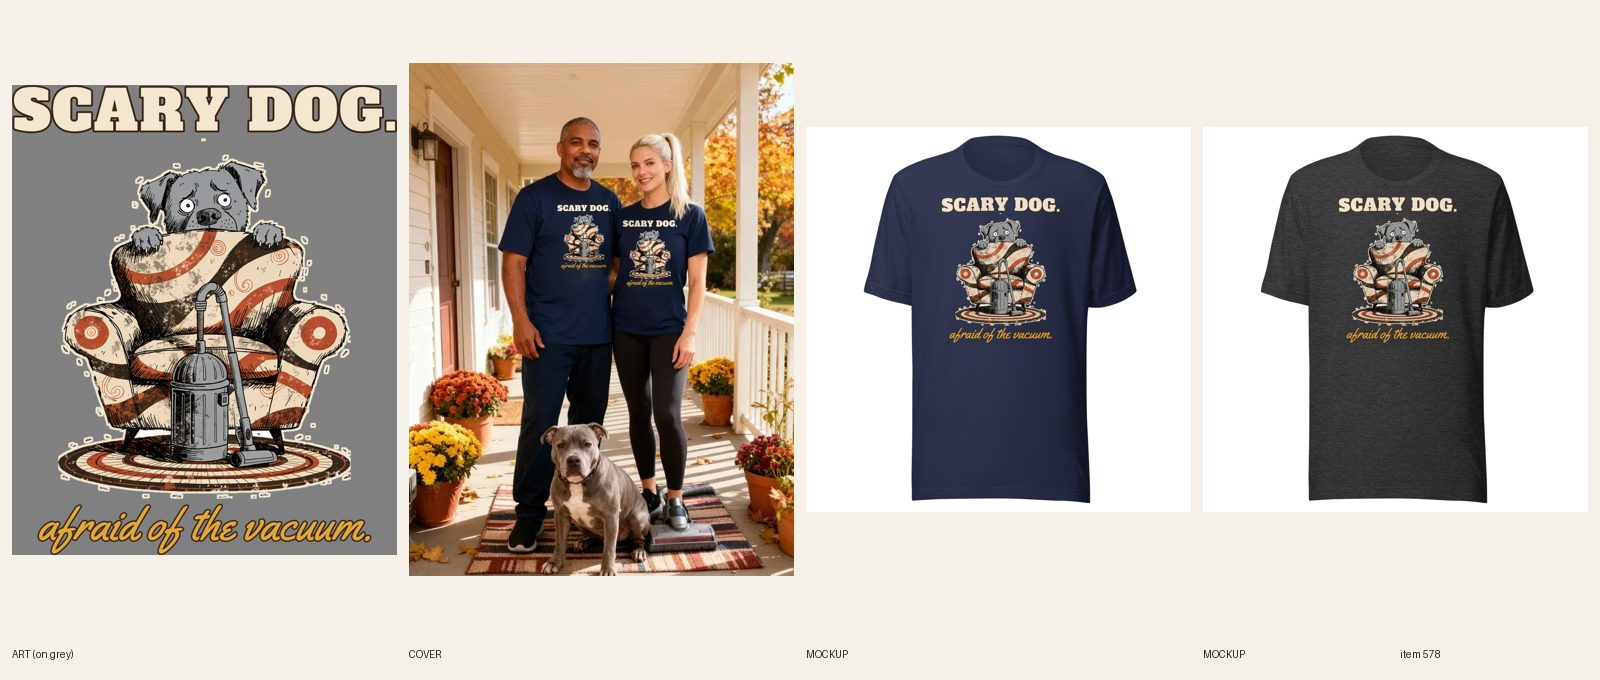
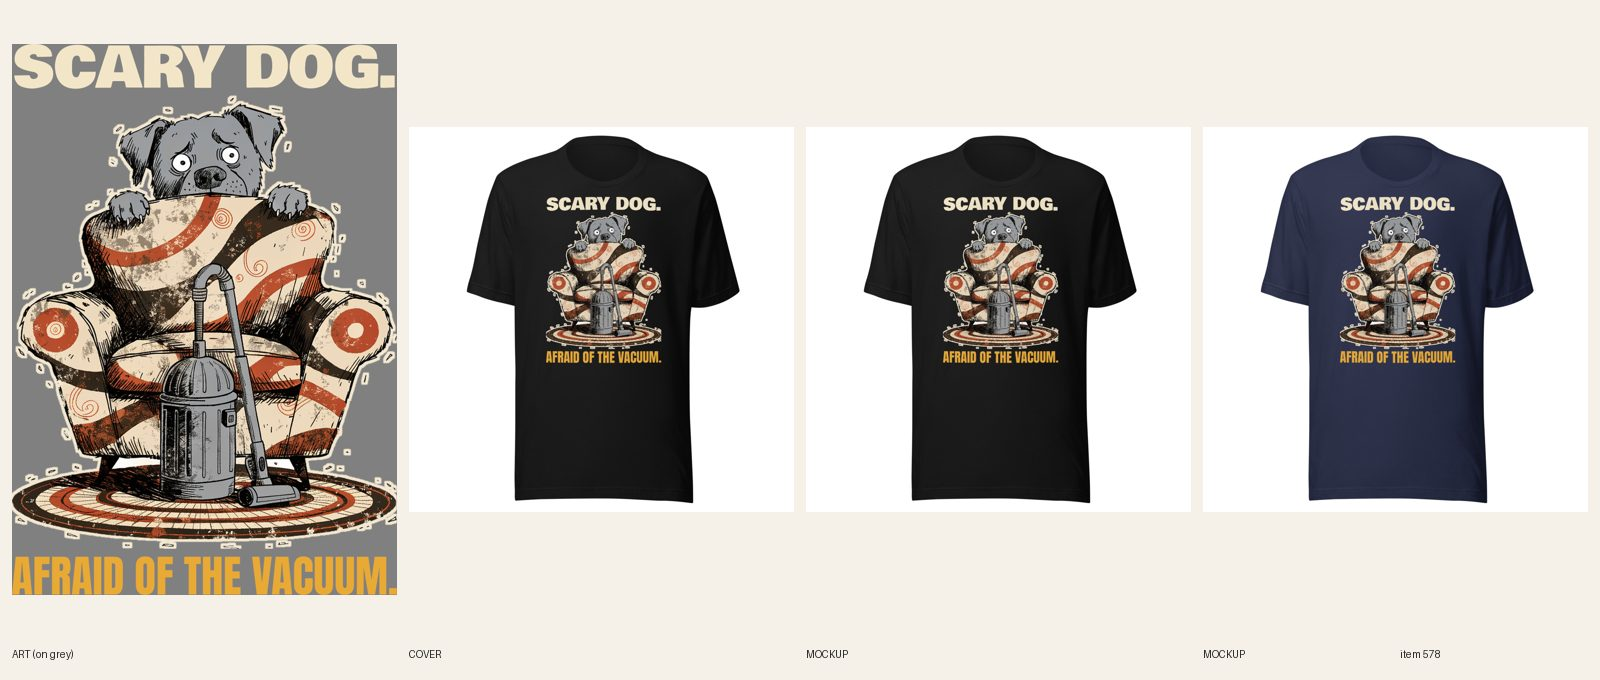
[E] review 578 Pitbull Scary Dog tee (type redo)

diff --git a/designs/e578/compose.py b/designs/e578/compose.py
@@ -1,0 +1,31 @@
+#!/usr/bin/env python3
+"""#578 type redo: Bowlby One cream SCARY DOG. + Anton mustard AFRAID OF THE VACUUM. at full art width around the existing pit bull art (all colors are dark blanks)."""
+import sys
+from PIL import Image, ImageDraw, ImageFont
+F = 'designs/fonts/'
+src = Image.open('docs/print-files/578-scary-dog.png').convert('RGBA')
+art = src.crop((0, 560, src.width, 3590)); art = art.crop(art.getbbox()); art.save('designs/e578/art.png')
+W = art.width
+def line(text, font, fill, stroke, sfill, width):
+    size = 80
+    while True:
+        f = ImageFont.truetype(F + font, size)
+        bb = f.getbbox(text, stroke_width=stroke)
+        if bb[2] - bb[0] >= width or size > 2000:
+            break
+        size += 4
+    im = Image.new('RGBA', (bb[2] - bb[0] + 20, bb[3] - bb[1] + 20), (0, 0, 0, 0))
+    ImageDraw.Draw(im).text((10 - bb[0], 10 - bb[1]), text, font=f, fill=fill, stroke_width=stroke, stroke_fill=sfill)
+    return im.crop(im.getbbox())
+CREAM, MUSTARD, BROWN = '#f3e6c8', '#e8a935', '#2a1a10'
+l1 = line('SCARY DOG.', 'BowlbyOne-Regular.ttf', CREAM, 0, CREAM, W)
+l2 = line('AFRAID OF THE VACUUM.', 'Anton-Regular.ttf', MUSTARD, 0, MUSTARD, W)
+gaps = [40, 50]
+stack = [l1, art, l2]
+H = sum(i.height for i in stack) + sum(gaps)
+out = Image.new('RGBA', (max(i.width for i in stack), H), (0, 0, 0, 0))
+y = 0
+for k, i in enumerate(stack):
+    out.alpha_composite(i, ((out.width - i.width) // 2, y)); y += i.height + (gaps[k] if k < 2 else 0)
+out.save(sys.argv[1], dpi=(300, 300))
+print(out.size, [i.size for i in stack], 'ratio', out.height / out.width, 'l2/l1 height', l2.height / l1.height)

diff --git a/docs/pipeline/578-pitbull-tee-afraid-of-the-vacuum.md b/docs/pipeline/578-pitbull-tee-afraid-of-the-vacuum.md
@@ -1,4 +1,4 @@
-status: BUILDING [E] 2026-10-19 21:05 UTC
+status: REVIEW
 lane: E
 type: new
 id: 578
@@ -33,3 +33,4 @@ kd: 30
 - 2026-10-18 07:42 UTC builder [E]: sync 42/42 confirmed. REVIEW.
 - 2026-10-18 08:19 UTC director: LIVE. Sheet reviewed (R3, R4/R5, R6, R8, R13.3); copy fix: FAQ said the print was in dark colors on dark shirts (now cream lettering). ACTIVE + Online Store, Headless, Google & YouTube; cohesion-audit --handle PASS 0 warn.
 - 2026-10-18 17:22 UTC director: QUALITY RESET grade B (type only), REDO. The product stays ACTIVE (same handle, URL, title keyword). Keep the line "SCARY DOG. / afraid of the vacuum." and the art. 1. Type: Thin gold script second line on navy, ~40% headline height; plain bar on top. 2. Quality reset type bar (docs/backlog/quality-reset.md, 'The new bar'): headline at least 90% of the art width, heavy, colors pulled from the art; second line at least 45% of the headline's height, never a thin script on a dark or mid garment; use the lettering as a shape (arch, stacked lockup, words breaking into the art), not a plain bar above and a script line below; no font used on more than 1 in 6 of the last 30 designs. 3. New print file means a new cover per R6.10 and a fresh review sheet (R7.7). While quality-reset.md says PAUSED, only lane A builds, and only the samples step 2 names.
+- 2026-10-19 21:25 UTC builder [E]: REDO type-only done. Same pit bull art (old text bars cropped off), new lockup designs/e578/compose.py: SCARY DOG. Bowlby One cream at full art width, AFRAID OF THE VACUUM. Anton mustard #e8a935 at full art width (86% of headline height), no thin script. All six blanks are dark, cream/mustard fills need no light file. Print 2521 x 3608 px, Printful file 1089860399, FW 1600 TOP 75 (ratio 1.43 caps FW), resynced 42/42 with back logo (verified). 6 fronts replaced in place in Shopify (back unchanged). Story and ink FAQ sentence updated. Cover: plain product shot (handle already in retired-covers.json). Phone-size read: both lines clear on Black and Navy. cohesion-audit not run (node_modules missing in this container; no src change). fal $0. Sheet docs/review/578.jpg.

diff --git a/docs/intake-log.md b/docs/intake-log.md
@@ -1,3 +1,4 @@
+2026-10-19 21:26 UTC — [E] Builder run: redid #578 Unisex Pitbull Scary Dog, Afraid of the Vacuum tee (type only: Bowlby One cream SCARY DOG. + Anton mustard AFRAID OF THE VACUUM. at full art width, same art, FW 1600 TOP 75, file 1089860399, 42/42 resynced, 6 fronts replaced in place, copy updated, plain product shot). REVIEW. fal $0. 1 redo per run cap reached. Lock released.
 
 RUNNING lane C since 2026-10-19 20:55 UTC
 RUNNING lane E since 2026-10-19 21:05 UTC
